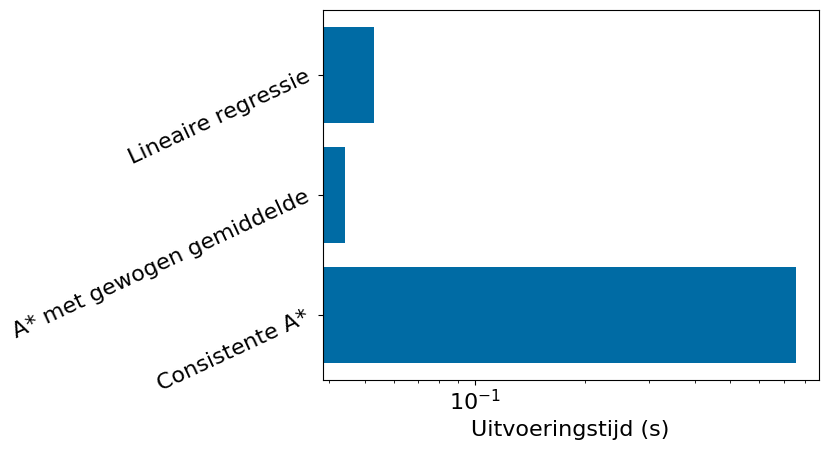
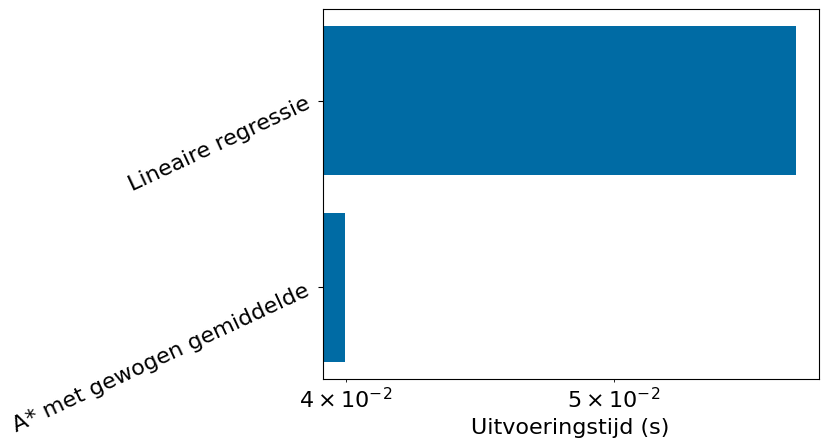
rek en node expansion plot

diff --git a/generate_data_greedy.py b/generate_data_greedy.py
@@ -87,20 +87,7 @@ def data_generator(name, functions, foldername, number_of_routes_pre_compute=80,
             reached_end_node[i] = 1
             result_stretch[i] = result / weight_path[i]
 
-    elif function == gp.priority_queue_new_evaluation_function:
-        clf, scaler = gp.add_amount_of_visited_weights(graph, 20)
-        print('gestart')
-        tot_teller = 0
-        for i in range(number_of_routes):  # do the greedy functions
-            start_time = time.time() 
-            result, ratio_travelled, teller = function(node_list[list_indices_start[i]], node_list[list_indices_end[i]], graph, weight_function=clf, scaler=scaler, ratio_travelled=True, return_counter=True)  # result like route weight of the desired path
-            ratio_travelled_list[i] = ratio_travelled
-            tot_teller += teller
-            if result != np.inf:  # only calculate how long the path was once one was found with greedy forwarding  else takes so long
-                total_time += time.time() - start_time  # only track time if succesful
-                reached_end_node[i] = 1
-                result_stretch[i] = result / weight_path[i]
-        print(tot_teller)            
+                
     elif function == gtas.greedy_forwarding_then_a_star: #or function == a_star.A_star_priority_queue:
 
       average_velocity = fgd.get_weigted_average_velocity(graph)
@@ -134,26 +121,26 @@ def data_generator(name, functions, foldername, number_of_routes_pre_compute=80,
                 reached_end_node[i] = 1
                 result_stretch[i] = result/weight_path[i]
         print(tot_teller)        
-        """
+        
           
         
-        elif foldername[x] == 'greedy_spring':
-          
-          graph_spring = nf.spring(graph) 
-          print('gespringed')
-    
-          for i in range(number_of_routes): # do the greedy functions
-            start_time = time.time()
-    
-            result, ratio_travelled = function(node_list[list_indices_start[i]], node_list[list_indices_end[i]], graph_spring, distance_function=cf.supremum ,ratio_travelled=True) # result like route weight of the desired path
-            
-            ratio_travelled_list[i] = ratio_travelled
-    
-            if result != np.inf: # only calculate how long the path was once one was found with greedy forwarding  else takes so long   
-              total_time += time.time() - start_time # only track time if succesful
-              reached_end_node[i] = 1
-              result_stretch[i] = result/weight_path[i]
-        """
+    elif foldername[x] == 'semester1/greedy_spring':
+      
+      graph_spring = nf.spring(graph) 
+      print('gespringed')
+
+      for i in range(number_of_routes): # do the greedy functions
+        start_time = time.time()
+
+        result, ratio_travelled = function(node_list[list_indices_start[i]], node_list[list_indices_end[i]], graph_spring, distance_function=cf.euclidian_n_dimensions ,ratio_travelled=True) # result like route weight of the desired path
+        
+        ratio_travelled_list[i] = ratio_travelled
+
+        if result != np.inf: # only calculate how long the path was once one was found with greedy forwarding  else takes so long   
+          total_time += time.time() - start_time # only track time if succesful
+          reached_end_node[i] = 1
+          result_stretch[i] = result/weight_path[i]
+        
     elif function == NNgp.gravity_pressure_embedding:
         embedding = KeyedVectors.load(f'./node2vec_models/{name}.wordvectors', mmap='r')
         
@@ -283,12 +270,15 @@ name_list = ['New Dehli','Brugge','Nairobi', 'Rio de Janeiro', 'Manhattan']
 
 # name_list = ['Manhattan']
 
-functions = [gp.priority_queue_new_evaluation_function,a_star.A_star_priority_queue ,gp.gravity_pressure, gf.greedy_forwarding, gtas.greedy_forwarding_then_a_star, grpf.greedy_forwarding_rpf, gm.manhattan_greedy_forwarding, hr.hyperbolic_greedy_forwarding] #,hr.hyperbolic_greedy_forwarding gf.greedy_forwarding ,gfwe.greedy_forwarding_with_edge_weight, gtas.greedy_forwarding_then_a_star,  grpf.greedy_forwarding_rpf, gm.manhattan_greedy_forwarding,gp.gravity_pressure, gp.gravity_pressure]# a_star.A_star_priority_queue, NNgp.gravity_pressure_embedding, 
+# functions = [gp.priority_queue_new_evaluation_function,a_star.A_star_priority_queue ,gp.gravity_pressure, gf.greedy_forwarding, gtas.greedy_forwarding_then_a_star, grpf.greedy_forwarding_rpf, gm.manhattan_greedy_forwarding, hr.hyperbolic_greedy_forwarding] #,hr.hyperbolic_greedy_forwarding gf.greedy_forwarding ,gfwe.greedy_forwarding_with_edge_weight, gtas.greedy_forwarding_then_a_star,  grpf.greedy_forwarding_rpf, gm.manhattan_greedy_forwarding,gp.gravity_pressure, gp.gravity_pressure]# a_star.A_star_priority_queue, NNgp.gravity_pressure_embedding, 
 
 #functions = [hr.hyperbolic_greedy_forwarding]
 #functions = [a_star.A_star_priority_queue]
 
-foldernames = ['semester2/weighted_expansion', 'irrelevanat/', 'semester1/gravity_pressure', 'semester1/normal_greedy', 'semester1/greedy_then_a_star', 'semester1/greedy_rpf','semester1/greedy_manhattan','semester1/greedy_hyperbolic',] #, 'normal_greedy','greedy_with_edge_weight','greedy_then_a_star', 'greedy_rpf', 'greedy_manhattan', 'greedy_hyperbolic','gravity_pressure', 'greedy_hyperbolic']
+functions = [gf.greedy_forwarding]
+
+foldernames = ['semester1/greedy_spring']
+# foldernames = ['semester2/weighted_expansion', 'irrelevanat/', 'semester1/gravity_pressure', 'semester1/normal_greedy', 'semester1/greedy_then_a_star', 'semester1/greedy_rpf','semester1/greedy_manhattan','semester1/greedy_hyperbolic',] #, 'normal_greedy','greedy_with_edge_weight','greedy_then_a_star', 'greedy_rpf', 'greedy_manhattan', 'greedy_hyperbolic','gravity_pressure', 'greedy_hyperbolic']
 #'pure_A_star'
 #foldernames = ['pure_A_star']
 #foldernames = ['greedy_hyperbolic']

diff --git a/linear.py b/linear.py
@@ -11,33 +11,37 @@ import sklearn.preprocessing
 import time
 
 
-def list_maker(euclid_distance, previous_euclid, amount_travelled, travel_time):
+def list_maker(euclid_distance, previous_euclid, amount_travelled, travel_time, amount_of_neighbors):
     difference = euclid_distance - previous_euclid
-    #sqep = difference * difference
-    # extra = np.sqrt(np.sum((coor1-coor2) ** 2))
-    
 
-    return np.array([[amount_travelled, euclid_distance, travel_time, difference,  1/amount_travelled, 1/difference,1/(euclid_distance+0.1), np.tanh(amount_travelled) ]])
+    return np.array([[amount_travelled, euclid_distance, travel_time, difference,  1/amount_travelled, 1/difference,1/(euclid_distance+0.1), np.tanh(amount_travelled), amount_of_neighbors, amount_of_neighbors**2,  1/amount_of_neighbors]])
 
-def add_amount_of_visited_weights(graph, number_of_landmarks, cutoff=False):
+def add_amount_of_visited_weights(graph, number_of_landmarks, cutoff=False, extra_factor=5):
 
+    np.random.seed(42)
+    random.seed(42)
 
     landmarks_tot = random.sample(list(graph.nodes()), number_of_landmarks) # without repetition
+    
 
     landmarks1 = landmarks_tot[:len(landmarks_tot)//2]
     landmarks2 = landmarks_tot[len(landmarks_tot)//2:]
-    path_list = list()
     
+    print('hier')
+    for u in graph.nodes():
+        graph.nodes[u]['amount_neighbors'] = len(list(nx.neighbors(graph,u))) 
+        
     for u, v in graph.edges():
         graph[u][v]['amount_travelled'] = 1
+        
     for landmark in landmarks1:
+        print(landmark)
         distances, paths = nx.single_source_dijkstra(graph, landmark, weight='travel_time')
         for i, value in enumerate(paths.values()):
             for x in range(len(value)-1): # -1 cause we can't count too for out of the list range
                 graph[value[x]][value[x+1]]['amount_travelled'] += 0.1
 
-        path_list.append(paths)
-
+    print('hier')
     x_list, y_list = list(), list()
     
     for landmark in landmarks2: 
@@ -49,17 +53,18 @@ def add_amount_of_visited_weights(graph, number_of_landmarks, cutoff=False):
                 print(i)
                 break
             
-            
             for x in range(len(value)-1): # -1 cause we can't count too for out of the list range
                 previous = cf.euclid_distance(value[x], value[-1], graph)    
                 euclid_distance = cf.euclid_distance(value[x+1], value[-1], graph)
                 amount_travelled = graph[value[x]][value[x+1]]['amount_travelled']
                 travel_time = graph[value[x]][value[x+1]]['travel_time']
 
-                x_list.append(list_maker(euclid_distance, previous, amount_travelled, travel_time)[0])
+                amount_neighbors = graph.nodes[value[x+1]]['amount_neighbors']
+
+                x_list.append(list_maker(euclid_distance, previous,  amount_travelled, travel_time, amount_neighbors)[0])
              
                 # eucldian distance between the destination and the neighbor node we are actually going to
-                y_list.append(1 + 3 * distances[value[x+1]]/distances[value[-1]] ) # used to be just one +  distances[value[x+1]]/distances[value[-1]]
+                y_list.append(1 + extra_factor * distances[value[x+1]]/distances[value[-1]] ) # used to be just one +  distances[value[x+1]]/distances[value[-1]]
                 
                 neighbors = list(graph.neighbors(value[x]))
                 neighbors.remove(value[x+1])
@@ -70,14 +75,16 @@ def add_amount_of_visited_weights(graph, number_of_landmarks, cutoff=False):
                     euclid_distance = cf.euclid_distance(chosen_neighbor, value[-1], graph)
                     travel_time = graph[value[x]][chosen_neighbor]['travel_time']
 
-                    x_list.append(list_maker(euclid_distance, previous, amount_travelled, travel_time)[0])
+                    amount_neighbors = graph.nodes[chosen_neighbor]['amount_neighbors']
+
+                    x_list.append(list_maker(euclid_distance, previous, amount_travelled, travel_time, amount_neighbors)[0])
                     
                     y_list.append(0)
 
     x_train, x_test, y_train, y_test = sklearn.model_selection.train_test_split(x_list, y_list, test_size=0.25, random_state=42, shuffle=True)
     
     # linear_regression = sklearn.svm.SVR(kernel='poly',max_iter = 5000, verbose=False)
-    linear_regression =  sklearn.linear_model.Ridge() #sklearn.linear_model.LinearRegression()
+    linear_regression =  sklearn.linear_model.Ridge() 
     
     x_train = np.array(x_train)
     y_train = np.array(y_train)
@@ -85,7 +92,7 @@ def add_amount_of_visited_weights(graph, number_of_landmarks, cutoff=False):
     print(x_train.shape)
 
     clf = linear_regression.fit(x_train, y_train)
-    print(clf.coef_)
+    #print(clf.coef_)
     print(clf.score(x_train, y_train))
     print(clf.score(x_test, y_test))
 
@@ -156,8 +163,7 @@ def priority_queue_new_evaluation_function(id1, id2, graph, weight_function, rat
 
                 travel_time = graph[current_node][neighbor_node]['travel_time']
 
-
-                for_function = list_maker(euclid_distance, previous, amount_travelled, travel_time)
+                for_function = list_maker(euclid_distance, previous,amount_travelled, travel_time, graph.nodes[neighbor_node]['amount_neighbors'])
 
                 f_score[neighbor_node] = - output_function(weight_function.coef_, for_function) # output_function(weight_function.coef_, for_function) #output_function(weight_function.coef_, for_function)# expand lowest first
                 

diff --git a/compare_node_expansion.py b/compare_node_expansion.py
@@ -159,7 +159,7 @@ def make_graphs_logistic(city, number_of_paths, number_of_landmarks, cutoff=Fals
     time_normal = 0
     time_ML = 0
 
-    average_vel = get_weigted_average_velocity(graph) -15
+    average_vel = get_weigted_average_velocity(graph) -20
     max_velocity = fix_graph_data.get_max_velocity(graph) # gets the max velocity of all edges, useful for A*
 
     clf = linear.add_amount_of_visited_weights(graph, number_of_landmarks=number_of_landmarks, cutoff=cutoff)
@@ -220,10 +220,14 @@ def make_graphs_logistic(city, number_of_paths, number_of_landmarks, cutoff=Fals
     plt.savefig(f'./semester2/ML_files/aantal_expansies_ML_{city}.png', bbox_inches="tight")
     plt.clf()
 
-    y_pos = np.arange(3) # 2 timings
+    #y_pos = np.arange(3) # 2 timings
 
-    plt.barh(y_pos,[time_max_vel/number_of_paths, time_normal/number_of_paths, time_ML/number_of_paths], align = 'center')
-    plt.yticks(y_pos, labels=['Consistente A*','A* met gewogen gemiddelde', 'Lineaire regressie'])
+    #plt.barh(y_pos,[time_max_vel/number_of_paths, time_normal/number_of_paths, time_ML/number_of_paths], align = 'center')
+    #plt.yticks(y_pos, labels=['Consistente A*','A* met gewogen gemiddelde', 'Lineaire regressie'])
+    y_pos = np.arange(2)
+    plt.barh(y_pos,[time_normal/number_of_paths, time_ML/number_of_paths], align = 'center')
+    plt.yticks(y_pos, labels=['A* met gewogen gemiddelde', 'Lineaire regressie'])
+    
     plt.yticks(rotation = 25)
     plt.xlabel('Uitvoeringstijd (s)')
     plt.xscale('log')
@@ -264,10 +268,102 @@ def prepare_plot_errorbar_logistic(computed_list, weight_path,  binsize):
 
     average_stretch[average_stretch == 0] = np.nan
     return xvals, average_stretch, standard_dev_on_mean_stretch
+
+def node_expansions_vs_stretch(city, number_of_paths, number_of_landmarks, cutoff=True):
+    graph = nx.read_gpickle(f'./graph_pickle/{city}.gpickle')
+    
+    node_list = list(graph.nodes())
+    
+    how_many = 2 * number_of_paths
+    random_generated = random.sample(node_list, k=how_many)
+    start_nodes = random_generated[:number_of_paths]
+    end_nodes = random_generated[number_of_paths:]
+
+    weight_path = list()
+
+    for i in range(len(start_nodes)):
+        weight_path.append(nx.shortest_path_length(graph, start_nodes[i], end_nodes[i], weight='travel_time', method='dijkstra'))    
+
+    weight_path = np.array(weight_path)
+    
+    x_list = list()
+    y_list = list()
+    max_velocity = int(fix_graph_data.get_max_velocity(graph))# gets the max velocity of all edges, useful for A*
+
+    for vel in range(max_velocity,0,-5):
+
+        print(vel)
+        length = list()
+        teller = list()
+        for i in range(len(start_nodes)):
+
+            a = a_star.A_star_priority_queue(start_nodes[i], end_nodes[i], graph, vel, return_counter = True)
+            
+            length.append(a[0])
+            teller.append(a[1])
+
+            
+        length = np.array(length) / weight_path
+        length = np.mean(length)
+        teller = np.mean(np.array(teller))
+
+        x_list.append(length)
+        y_list.append(teller)
+
+    x_list_linear = list()
+    y_list_linear = list()
+    for extra_factor in range(0, 12,2):
+        clf = linear.add_amount_of_visited_weights(graph, number_of_landmarks=number_of_landmarks, cutoff=cutoff, extra_factor=extra_factor)
+    
+        length = list()
+        teller = list()
+        for i in range(len(start_nodes)):
+            b = linear.priority_queue_new_evaluation_function(start_nodes[i], end_nodes[i], graph, clf, ratio_travelled=True ,return_counter=True)
+
+            length.append(b[0])
+            teller.append(b[2])
+
+            
+
+        length = np.array(length) / weight_path
+        length = np.mean(length)
+        teller = np.mean(np.array(teller))
+
+        x_list_linear.append(length)
+        y_list_linear.append(teller)
+        
+
+    print(x_list)
+    print(y_list)
+
+    
+    plt.scatter(x_list, y_list, label='Normale A*')
+    plt.scatter(x_list_linear, y_list_linear, marker='+', label='ML')
+    plt.xlim(left=0.95)
+    plt.xlabel('Rek')
+    plt.ylabel('Gemiddeld aantal node expansies')
+    plt.yscale('log')
+    plt.legend()
+    plt.savefig(f'./semester2/ML_files/compare_stretch_{city}', bbox_inches='tight')
+    
+    plt.clf()
+    return 1
+    
        
 # make_graphs_NN('Brugge', 50)
 # name_list = ['New Dehli','Brugge','Nairobi', 'Rio de Janeiro', 'Manhattan']
 
-name_list = ['big_graph']
+node_expansions_vs_stretch('Brugge', 150, 10)    
+
+"""
+name_list = ['Brugge']
 for name in name_list:
+    
     make_graphs_logistic(name, 150, 15, cutoff=True)
+
+
+"""
+
+
+
+    

diff --git a/phd_spring.py b/phd_spring.py
@@ -1,0 +1,32 @@
+import networkx as nx
+import numpy as np
+
+def springen(city, iterations): # NEW TECHNIQUES FOR GEOGRAPHIC ROUTING PHD PAPER
+
+    graph = nx.read_gpickle(f'./graph_pickle/{city}.gpickle')
+
+    new_coordinates = dict()
+
+    for node in graph.nodes():
+        new_coordinates[node] = np.array([node['x'], node['y']])
+
+    # for each node we will now add the percentage of common neighbors this way we don't have to calculate this every time we will just keep this in a seperate dictionary
+
+    percentage_dict = dict() # will be a dict of a dict with percentage of common neighbors as values of this list dict
+
+    for node in graph.nodes():
+        si = set(nx.neighbors(graph, node))
+        percentage_dict[node] = dict()
+        
+        for neighbor in si:
+            sj = set(nx.neighbors(graph, neighbor))
+            sij = si.intersection(sj)
+            
+            percentage_dict[node][neighbor] = len(sij) / (len(sij) + len(si) + len(sj))
+
+    print(percentage_dict)
+
+springen('Brugge',1)
+    
+
+    

diff --git a/node_functions.py b/node_functions.py
@@ -91,7 +91,7 @@ def make_scale_free_graph(number_of_nodes, exponent):
         
     return graph
 
-def spring(graph, dimensions=2, weight_bool=True, iterations=25):
+def spring(graph, dimensions=2, weight_bool=False, iterations=25):
     
     init_pos_dict = dict()
     

diff --git a/coordinate_functions.py b/coordinate_functions.py
@@ -99,6 +99,7 @@ def distance_manhattan(node_id1, node_id2, graph):
 
 def get_coordinate_array(node_id, graph):
     data = graph.nodes[node_id]
+
     return data['coordinates']
 
 def euclidian_n_dimensions(node_id1, node_id2, graph):
